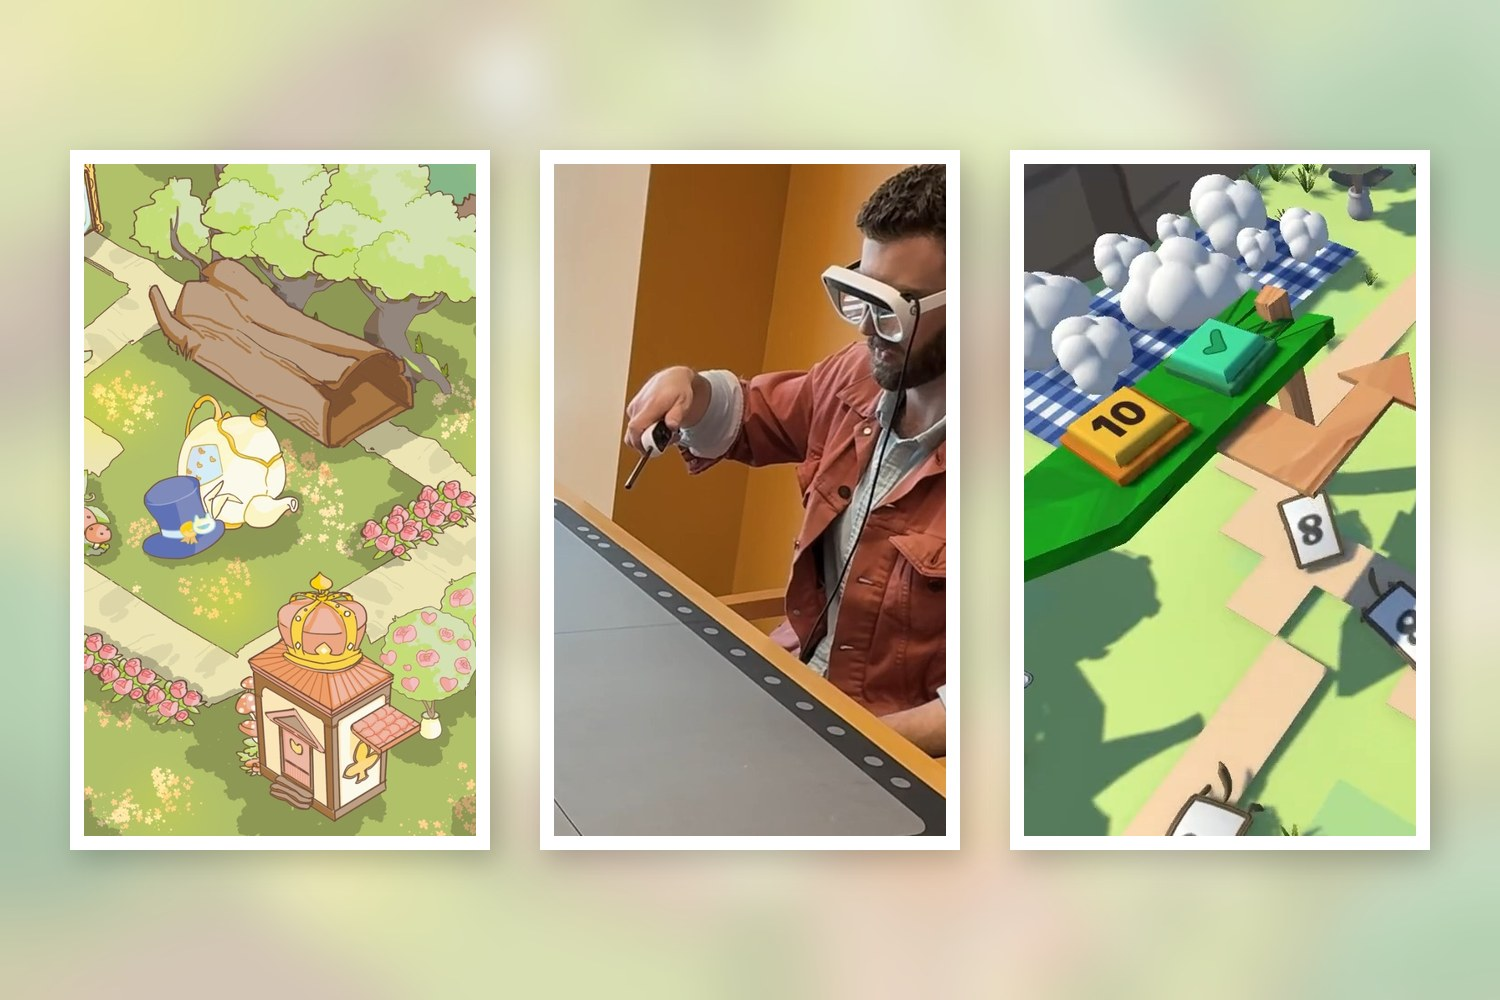
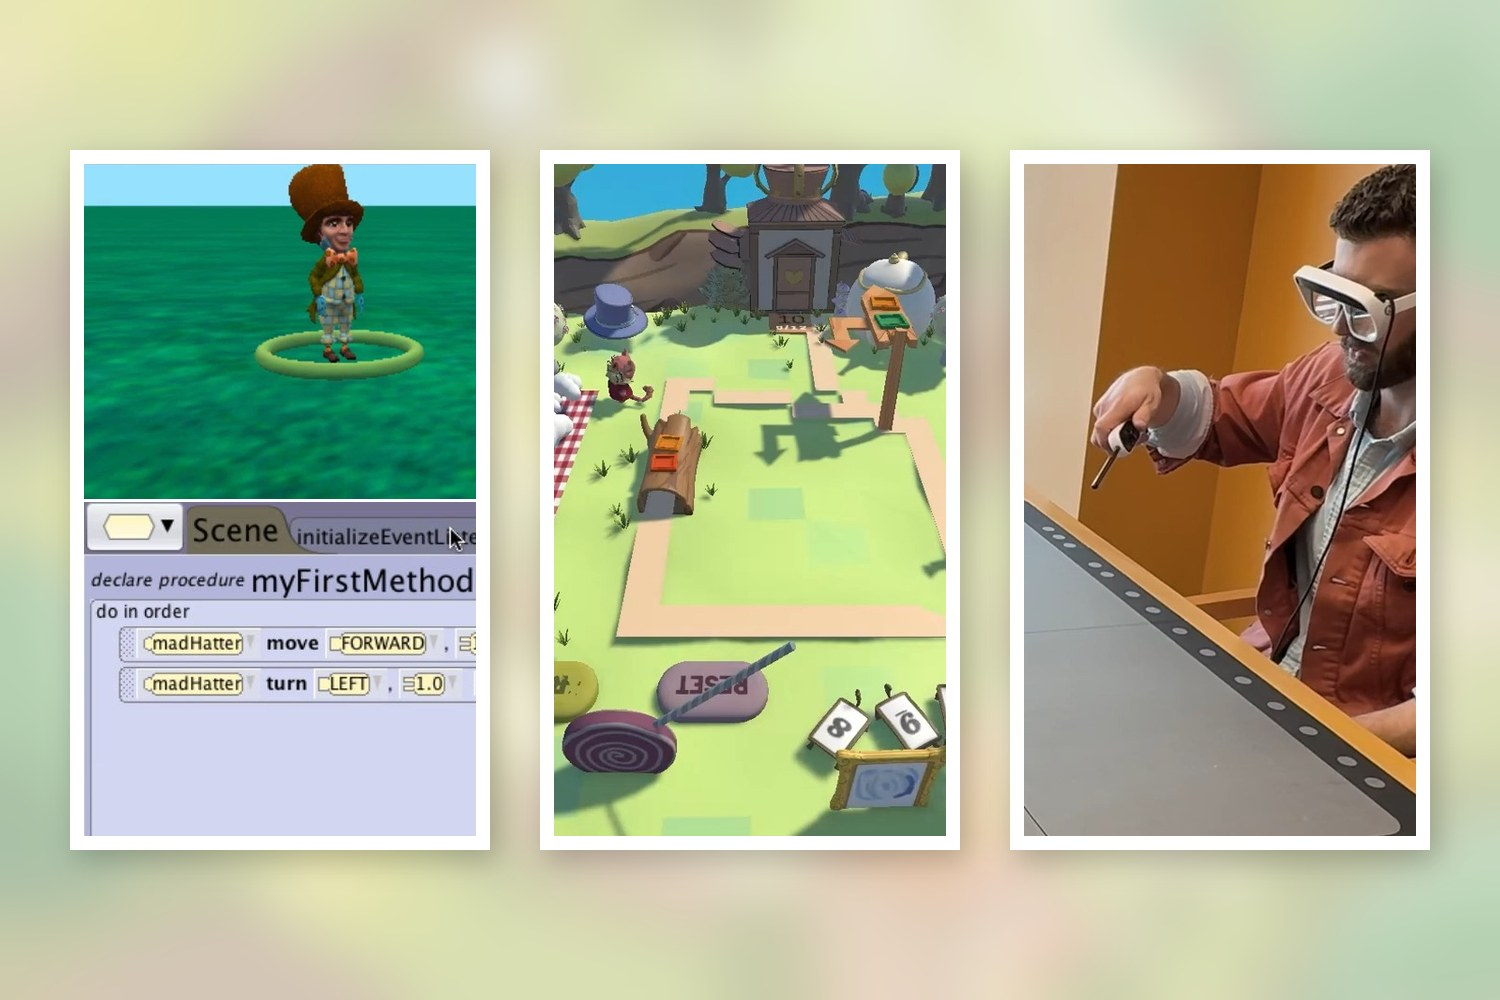
it takes two alices cover: Alice 3, game world, Tilt Five
Claude-Session: https://claude.ai/code/session_01CzUgLB4bLHRPfWzb5fm5tx

diff --git a/index.html b/index.html
@@ -53,7 +53,7 @@
       </article>
 
       <article class="project" id="p2">
-        <a class="slides cover" href="work/it-takes-two-alices.html"><img src="assets/images/covers/itta.jpg" alt="it takes two alices: the Wonderland scene, a player wearing Tilt Five glasses at the AR board, and a signpost of code tiles"></a>
+        <a class="slides cover" href="work/it-takes-two-alices.html"><img src="assets/images/covers/itta.jpg" alt="it takes two alices: Alice 3 block coding, the 3D game world, and a player wearing Tilt Five glasses at the AR board"></a>
         <div class="meta">
           <p><a href="work/it-takes-two-alices.html">it takes two alices</a><br>2026</p>
           <div>
